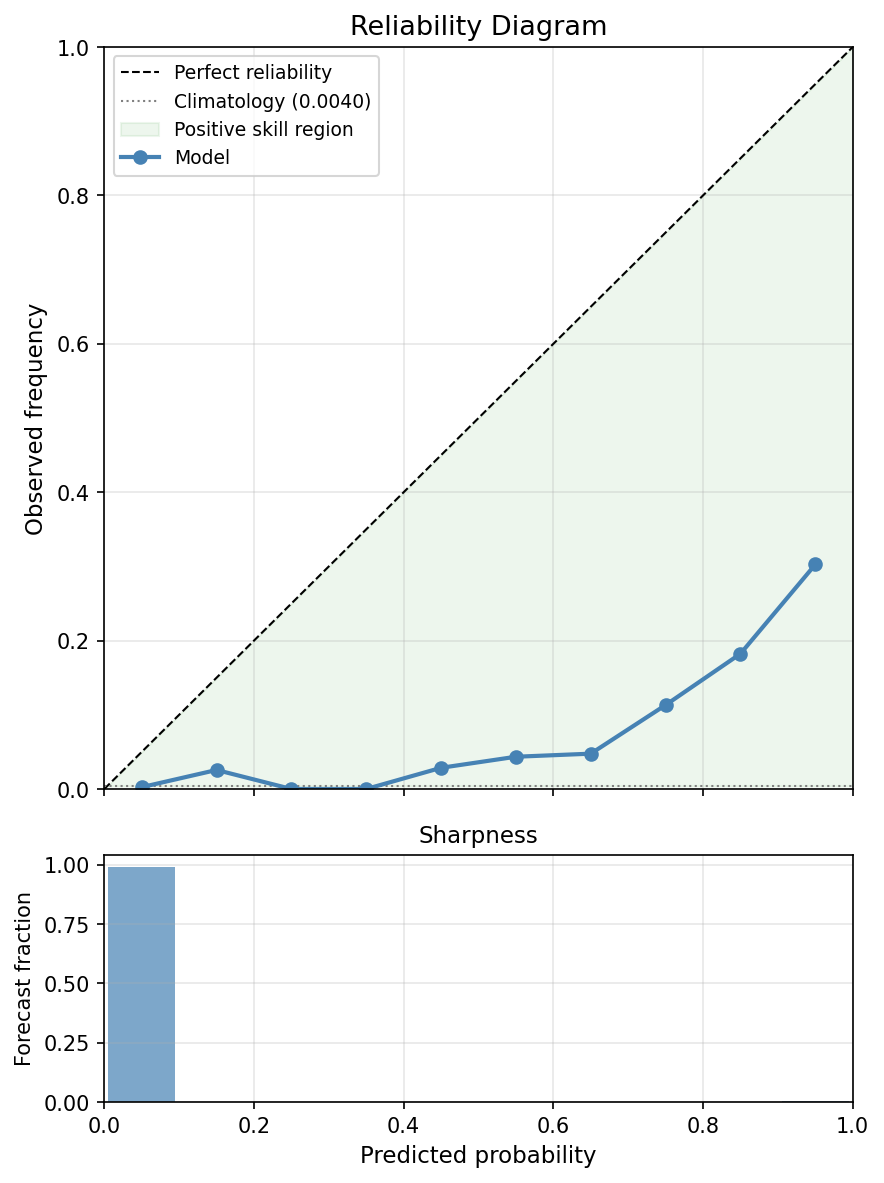
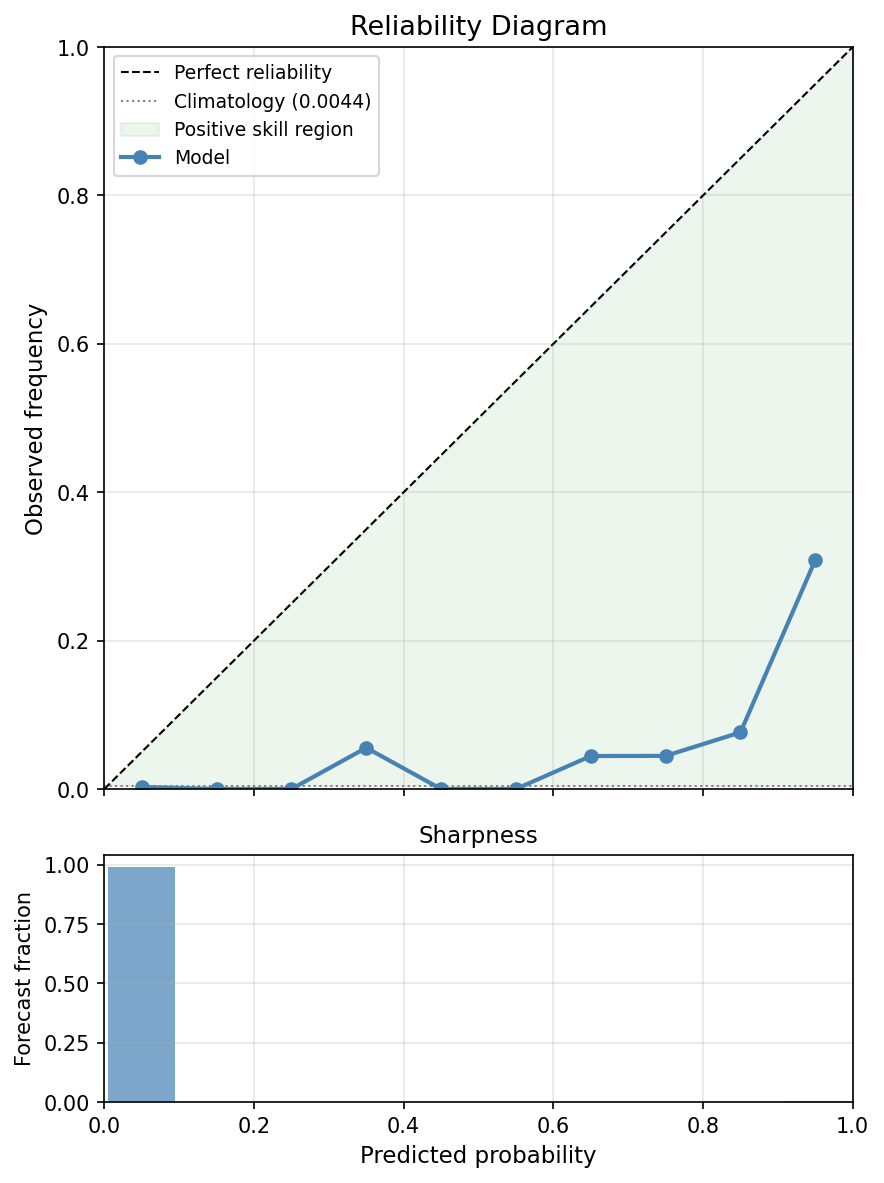
Modified the code to stack each atm parameter with it's 3 hour data. So each tensor is now build of T-2, T-1 and T per each atm variable

diff --git a/data/preprocessing.py b/data/preprocessing.py
@@ -1,6 +1,6 @@
 import os
 import re
-from datetime import datetime
+from datetime import datetime, timedelta
 
 import numpy as np
 import torch
@@ -256,6 +256,13 @@ def build_and_save_tensors_era5(tensor_path, atm_params, case_config):
     Each hourly NC file contains all ERA5 variables + entln_count on the same grid.
     No ensemble members — ERA5 is a single reanalysis.
 
+    When case_config.lookback_hours > 1, consecutive hours T-2, T-1, T are stacked
+    as input channels so the model sees temporal evolution.  Any gap in the hourly
+    sequence causes the triplet to be skipped.
+
+    Input channels:  n_vars * lookback_hours  (e.g. 9 vars × 3 hours = 27)
+    Output channels: 1  (binary lightning at hour T)
+
     Expected file path:
         thesis-bucket/Processed_Data/ERA5/{case}/1_hours/{timestamp}.nc
     """
@@ -263,6 +270,8 @@ def build_and_save_tensors_era5(tensor_path, atm_params, case_config):
     all_y_samples = []
     sample_groups = []
 
+    lookback = getattr(case_config, 'lookback_hours', 1)
+    n_vars   = len(atm_params)
     era5_base = os.path.join(MAIN_PATH, 'thesis-bucket', 'Processed_Data', 'ERA5')
 
     for case in case_config.train_case_names:
@@ -272,40 +281,69 @@ def build_and_save_tensors_era5(tensor_path, atm_params, case_config):
             print(f"WARNING: ERA5 folder not found for {case}: {case_era5_path}")
             continue
 
-        files = sorted([f for f in os.listdir(case_era5_path) if f.endswith('.nc')])
-        print(f"Case {case}: found {len(files)} hourly ERA5 files")
+        # ── Sort files and parse timestamps ───────────────────────────────────
+        raw_files = sorted([f for f in os.listdir(case_era5_path) if f.endswith('.nc')])
 
-        for fname in tqdm(files, desc=case):
-            fpath = os.path.join(case_era5_path, fname)
+        valid_files = []
+        timestamps  = []
+        for fname in raw_files:
+            ts_match = re.search(r'(\d{4}-\d{2}-\d{2}_\d{2}_\d{2}_\d{2})', fname)
+            if ts_match:
+                dt = datetime.strptime(ts_match.group(1), '%Y-%m-%d_%H_%M_%S')
+                valid_files.append(fname)
+                timestamps.append(dt)
 
-            # Load all selected ERA5 atmospheric variables
-            current_tensors = []
-            valid = True
-            for param in atm_params:
-                tensor = load_nc_layer(fpath, param)
-                if tensor is None:
-                    print(f"  Missing variable '{param}' in {fname} — skipping")
-                    valid = False
-                    break
-                current_tensors.append(tensor)
+        print(f"Case {case}: {len(valid_files)} hourly ERA5 files  |  lookback={lookback}h")
 
-            if not valid or len(current_tensors) != len(atm_params):
+        skipped_gap = 0
+
+        for i in tqdm(range(lookback - 1, len(valid_files)), desc=case):
+            # ── Check all lookback hours are consecutive ───────────────────
+            window_times = timestamps[i - lookback + 1 : i + 1]
+            consecutive = all(
+                window_times[j + 1] - window_times[j] == timedelta(hours=1)
+                for j in range(len(window_times) - 1)
+            )
+            if not consecutive:
+                skipped_gap += 1
                 continue
 
-            # Load ENTLN target and binarize (any pulse in cell = 1)
-            y_tensor = load_nc_layer(fpath, 'entln_count')
+            # ── Load variables for each hour in the window ─────────────────
+            # Order: T-(lookback-1), ..., T-1, T  (chronological)
+            all_hour_tensors = []
+            valid = True
+            for t_idx in range(i - lookback + 1, i + 1):
+                fpath = os.path.join(case_era5_path, valid_files[t_idx])
+                for param in atm_params:
+                    tensor = load_nc_layer(fpath, param)
+                    if tensor is None:
+                        valid = False
+                        break
+                    all_hour_tensors.append(tensor)
+                if not valid:
+                    break
+
+            expected_channels = lookback * n_vars
+            if not valid or len(all_hour_tensors) != expected_channels:
+                continue
+
+            # ── Load ENTLN target at hour T (last in window) ───────────────
+            fpath_t = os.path.join(case_era5_path, valid_files[i])
+            y_tensor = load_nc_layer(fpath_t, 'entln_count')
             if y_tensor is None:
                 continue
-            y_binary = (y_tensor > 0).float()
 
-            # Extract timestamp from filename for group-aware splitting
-            ts_match = re.search(r'(\d{4}-\d{2}-\d{2}_\d{2}_\d{2}_\d{2})', fname)
-            ts = ts_match.group(1) if ts_match else fname
+            x_tensor = torch.stack(all_hour_tensors, dim=0)  # [lookback*n_vars, H, W]
+            y_binary  = (y_tensor > 0).float()
 
-            x_tensor = torch.stack(current_tensors, dim=0)
             all_x_samples.append(x_tensor)
             all_y_samples.append(y_binary.unsqueeze(0))
-            sample_groups.append(f"{case}__{ts}")
+            sample_groups.append(
+                f"{case}__{timestamps[i].strftime('%Y-%m-%d_%H_%M_%S')}"
+            )
+
+        if skipped_gap:
+            print(f"  Skipped {skipped_gap} samples due to gaps in the hourly sequence.")
 
     print(f"Total ERA5 samples: {len(all_x_samples)}")
 
@@ -316,7 +354,8 @@ def build_and_save_tensors_era5(tensor_path, atm_params, case_config):
     final_x = torch.stack(all_x_samples, dim=0)
     final_y = torch.stack(all_y_samples, dim=0)
 
-    print(f"Final X shape: {final_x.shape}")
+    print(f"Final X shape: {final_x.shape}  "
+          f"({lookback} hours × {n_vars} vars = {lookback * n_vars} channels)")
     print(f"Final Y shape: {final_y.shape}")
 
     os.makedirs(tensor_path, exist_ok=True)

diff --git a/config/experiment.py b/config/experiment.py
@@ -1,7 +1,6 @@
 from config.constants import CASES
 from config.schema import CaseConfig, ModelConfig, RunConfig
 
-
 RUN_CONFIG = RunConfig(
     to_train=True,
     use_seed=True,
@@ -21,11 +20,11 @@ MODEL_CONFIG = ModelConfig(
     visualization_thresholds=[0.5, 0.6, 0.7, 0.8, 0.9, 0.95, 1.0],
     # Physics-aware constraints
     use_physics_loss=True,
-    physics_weight=0.2,
+    physics_weight=1.0,
     cape_min=100.0,    # J/kg  — CAPE must signal some instability
     ki_min=20.0,       # K-Index > 20 required for thunderstorm potential
     tciw_min=0.01,     # kg/m² — ice water needed for charge separation
-    crr_min=None,       # mm/h  — active convective rain required (> 0)
+    crr_min=0.0,       # mm/h  — active convective rain required (> 0)
     w500_max=-0.1,     # Pa/s  — ERA5 omega at 500 hPa must be negative (upward motion)
     r700_min=50.0,     # %     — 700 hPa relative humidity
     r850_min=60.0,     # %     — 850 hPa relative humidity
@@ -53,7 +52,7 @@ ERA5_CASE_CONFIG = CaseConfig(
     train_cases=CASES[:5],
     val_cases=[],
     test_cases=[],
-    tensor_dataset_name="ERA5_train_cases_1_to_5",
+    tensor_dataset_name="ERA5_train_cases_1_to_5_lookback3",  # new name → forces tensor rebuild
     # ERA5 variable short names (must match what's in the NC files)
     atm_params=["cape", "kx", "tciw", "d2m", "tcwv", "crr", "msl", "t2m", "hcc"],
     with_subparams={},
@@ -64,6 +63,7 @@ ERA5_CASE_CONFIG = CaseConfig(
     min_lon=27.954,
     max_lon=39.292,
     data_source="era5",
+    lookback_hours=3,       # stack T-2, T-1, T → 27 input channels (9 vars × 3 hours)
 )
 
 # ── Active config — switch here ────────────────────────────────────────────

diff --git a/main.py b/main.py
@@ -260,14 +260,22 @@ if __name__ == "__main__":
         # ── Physics raw channels: extract before normalisation ─────────────────
         # These are the ERA5 variables used to build "physically impossible" masks.
         # We extract them now (before in-place normalisation) so the values are raw.
+        # With lookback > 1 the tensor has shape [N, lookback*n_vars, H, W].
+        # We always use the LAST time step (hour T) for physics — it is the most
+        # recent observation and the one that corresponds to the target label.
         PHYSICS_VARS_WANTED = ['cape', 'kx', 'tciw', 'crr', 'w_500', 'r_700', 'r_850']
+        lookback = getattr(case_config, 'lookback_hours', 1)
+        n_atm    = len(case_config.atm_params)
+        t_offset = (lookback - 1) * n_atm   # first channel index of hour T
+
         physics_channels = []
         physics_var_names = []
         for var in PHYSICS_VARS_WANTED:
             # Case-insensitive search (handles 'CAPE2D' in WRF configs too)
             matches = [p for p in case_config.atm_params if p.lower() == var.lower()]
             if matches:
-                ch_idx = case_config.atm_params.index(matches[0])
+                var_idx = case_config.atm_params.index(matches[0])
+                ch_idx  = t_offset + var_idx   # channel in the full stacked tensor
                 physics_channels.append(X[:, ch_idx:ch_idx + 1, :, :].clone())
                 physics_var_names.append(var)
 

diff --git a/config/schema.py b/config/schema.py
@@ -90,11 +90,24 @@ class CaseConfig:
     def is_multi_case(self):
         return len(self.train_case_names) > 1
 
+    lookback_hours: int = 1   # how many consecutive hours to stack as input channels
+                               # 1 = single snapshot, 3 = T-2, T-1, T stacked
+
     @property
     def input_channel_names(self):
-        channel_names = []
+        """Channel names in the order they appear in the X tensor."""
+        base_names = []
         for param in self.atm_params:
-            channel_names.extend(self.with_subparams.get(param, [param]))
+            base_names.extend(self.with_subparams.get(param, [param]))
+
+        if self.lookback_hours == 1:
+            return base_names
+
+        # Stack T-(lookback-1), ..., T-1, T — label each channel with its time offset
+        channel_names = []
+        for t_back in range(self.lookback_hours - 1, -1, -1):
+            suffix = f"_T-{t_back}" if t_back > 0 else "_T"
+            channel_names.extend([f"{n}{suffix}" for n in base_names])
         return channel_names
 
     @property
